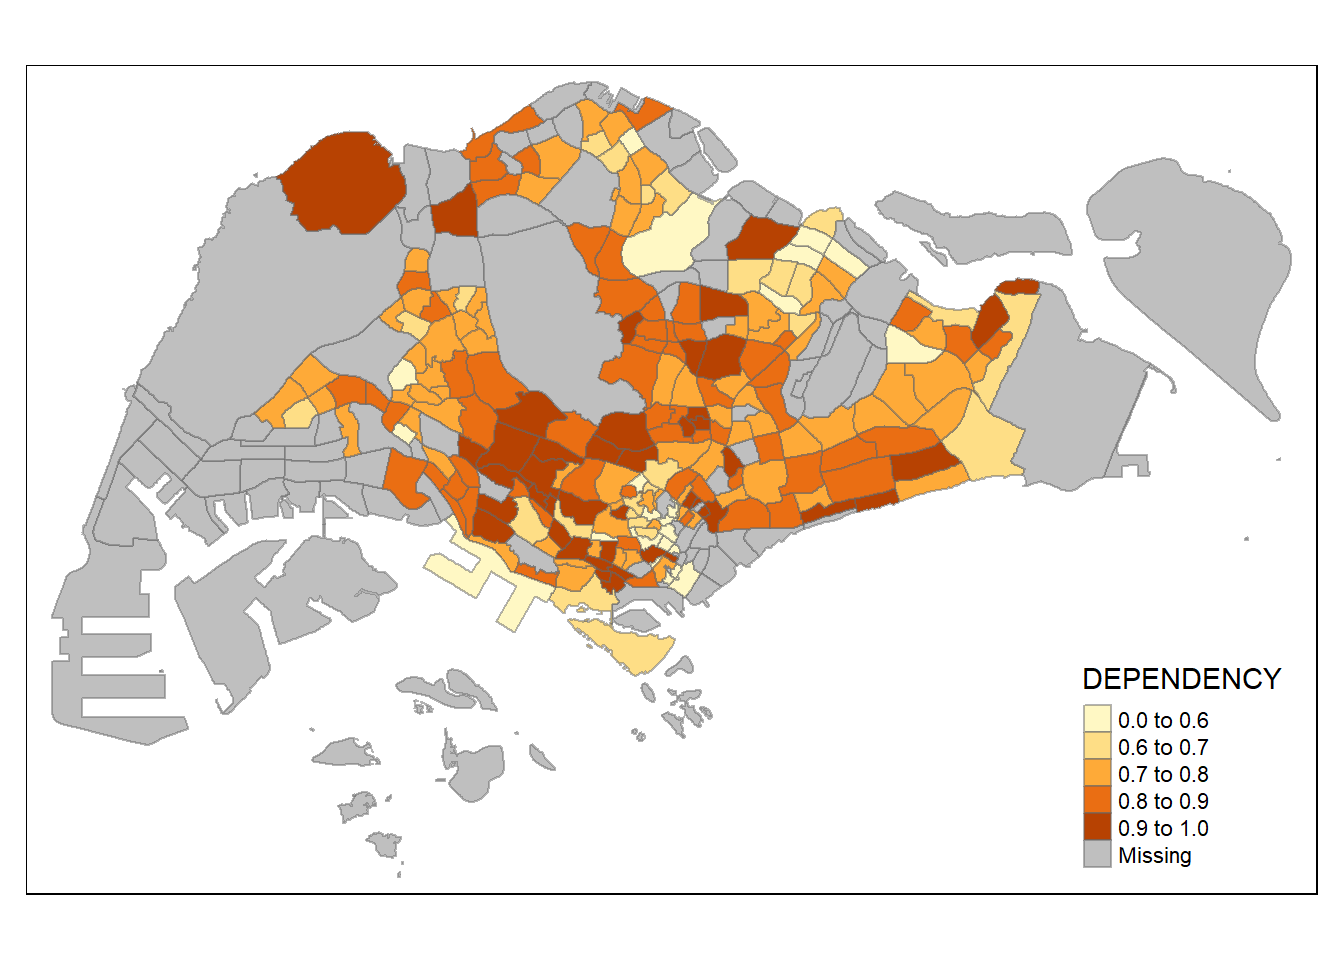
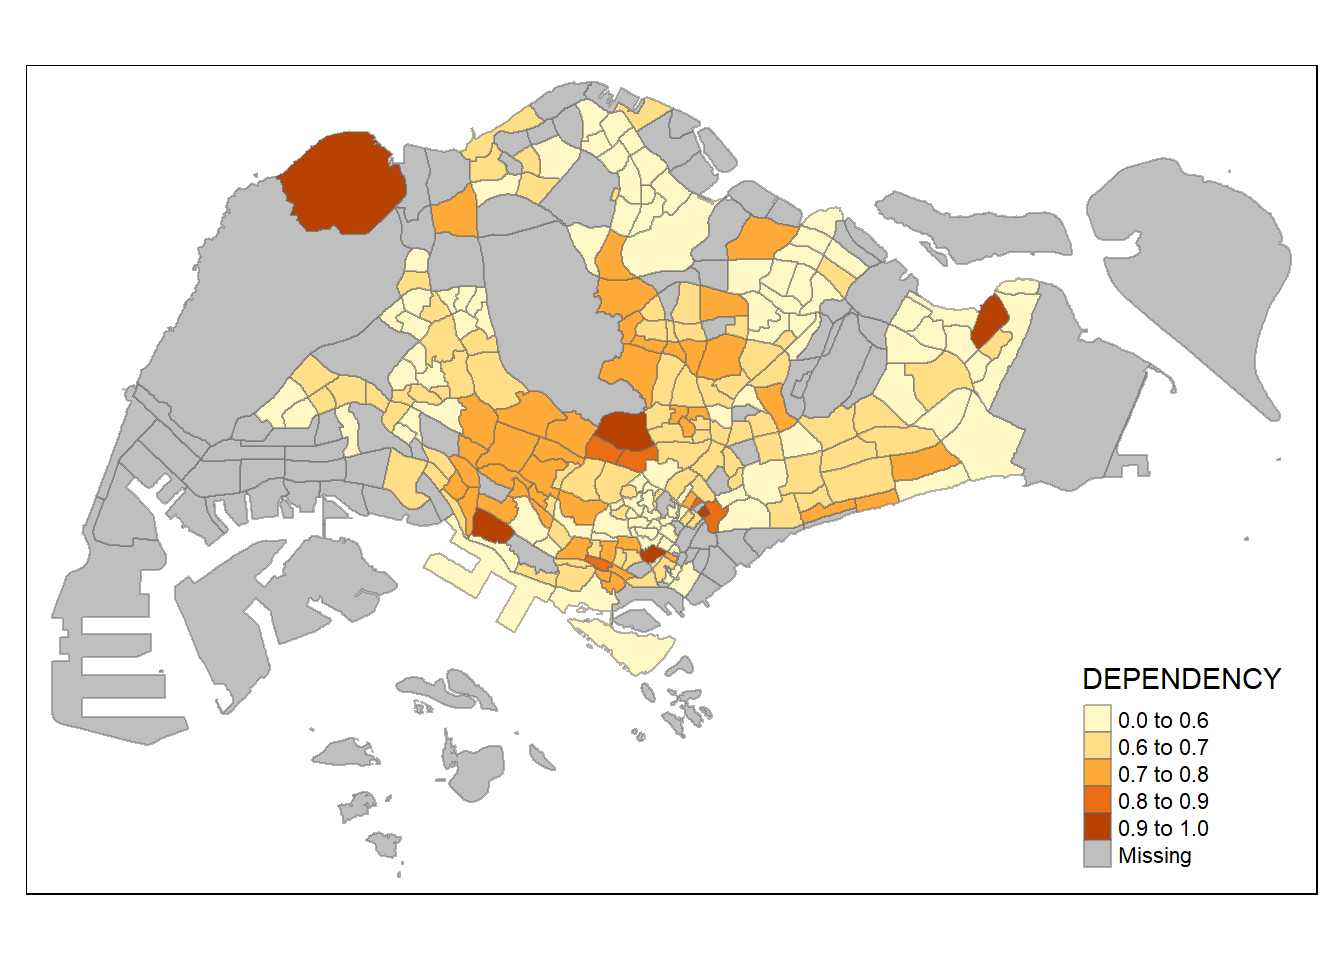
Updated code in Hands-on Exercise 02

Changed region(s): [[0.1875, 0.0938, 0.7812, 0.7188]]

diff --git a/_site/Hands-on_Ex/Hands-on_Ex02/Hands-on_Ex02.html b/_site/Hands-on_Ex/Hands-on_Ex02/Hands-on_Ex02.html
@@ -252,7 +252,7 @@ pre > code.sourceCode > span > a:first-child::before { text-decoration: underlin
     <div>
     <div class="quarto-title-meta-heading">Modified</div>
     <div class="quarto-title-meta-contents">
-      <p class="date-modified">August 20, 2024</p>
+      <p class="date-modified">August 25, 2024</p>
     </div>
   </div>
     
@@ -387,6 +387,7 @@ dbl (2): Pop, Time
 <li><p><em>pivot_wider()</em> of <strong>tidyr</strong> package, and</p></li>
 <li><p><em>mutate()</em>, <em>filter()</em>, <em>group_by()</em> and <em>select()</em> of <strong>dplyr</strong> package</p></li>
 </ul>
+<p>(Code modified on August 25, 2024)</p>
 <div class="cell">
 <div class="sourceCode cell-code" id="cb8"><pre class="sourceCode r code-with-copy"><code class="sourceCode r"><span id="cb8-1"><a href="#cb8-1" aria-hidden="true" tabindex="-1"></a>popdata2020 <span class="ot">&lt;-</span> popdata <span class="sc">%&gt;%</span></span>
 <span id="cb8-2"><a href="#cb8-2" aria-hidden="true" tabindex="-1"></a>  <span class="fu">filter</span>(Time <span class="sc">==</span> <span class="dv">2020</span>) <span class="sc">%&gt;%</span></span>
@@ -395,17 +396,16 @@ dbl (2): Pop, Time
 <span id="cb8-5"><a href="#cb8-5" aria-hidden="true" tabindex="-1"></a>  <span class="fu">ungroup</span>()<span class="sc">%&gt;%</span></span>
 <span id="cb8-6"><a href="#cb8-6" aria-hidden="true" tabindex="-1"></a>  <span class="fu">pivot_wider</span>(<span class="at">names_from=</span>AG, </span>
 <span id="cb8-7"><a href="#cb8-7" aria-hidden="true" tabindex="-1"></a>              <span class="at">values_from=</span>POP) <span class="sc">%&gt;%</span></span>
-<span id="cb8-8"><a href="#cb8-8" aria-hidden="true" tabindex="-1"></a>  <span class="fu">mutate</span>(<span class="at">YOUNG =</span> <span class="fu">rowSums</span>(.[<span class="dv">3</span><span class="sc">:</span><span class="dv">6</span>])</span>
-<span id="cb8-9"><a href="#cb8-9" aria-hidden="true" tabindex="-1"></a>         <span class="sc">+</span><span class="fu">rowSums</span>(.[<span class="dv">12</span>])) <span class="sc">%&gt;%</span></span>
-<span id="cb8-10"><a href="#cb8-10" aria-hidden="true" tabindex="-1"></a><span class="fu">mutate</span>(<span class="st">`</span><span class="at">ECONOMY ACTIVE</span><span class="st">`</span> <span class="ot">=</span> <span class="fu">rowSums</span>(.[<span class="dv">7</span><span class="sc">:</span><span class="dv">11</span>])<span class="sc">+</span></span>
-<span id="cb8-11"><a href="#cb8-11" aria-hidden="true" tabindex="-1"></a><span class="fu">rowSums</span>(.[<span class="dv">13</span><span class="sc">:</span><span class="dv">15</span>]))<span class="sc">%&gt;%</span></span>
-<span id="cb8-12"><a href="#cb8-12" aria-hidden="true" tabindex="-1"></a><span class="fu">mutate</span>(<span class="st">`</span><span class="at">AGED</span><span class="st">`</span><span class="ot">=</span><span class="fu">rowSums</span>(.[<span class="dv">16</span><span class="sc">:</span><span class="dv">21</span>])) <span class="sc">%&gt;%</span></span>
-<span id="cb8-13"><a href="#cb8-13" aria-hidden="true" tabindex="-1"></a><span class="fu">mutate</span>(<span class="st">`</span><span class="at">TOTAL</span><span class="st">`</span><span class="ot">=</span><span class="fu">rowSums</span>(.[<span class="dv">3</span><span class="sc">:</span><span class="dv">21</span>])) <span class="sc">%&gt;%</span>  </span>
-<span id="cb8-14"><a href="#cb8-14" aria-hidden="true" tabindex="-1"></a><span class="fu">mutate</span>(<span class="st">`</span><span class="at">DEPENDENCY</span><span class="st">`</span> <span class="ot">=</span> (<span class="st">`</span><span class="at">YOUNG</span><span class="st">`</span> <span class="sc">+</span> <span class="st">`</span><span class="at">AGED</span><span class="st">`</span>)</span>
-<span id="cb8-15"><a href="#cb8-15" aria-hidden="true" tabindex="-1"></a><span class="sc">/</span><span class="st">`</span><span class="at">ECONOMY ACTIVE</span><span class="st">`</span>) <span class="sc">%&gt;%</span></span>
-<span id="cb8-16"><a href="#cb8-16" aria-hidden="true" tabindex="-1"></a>  <span class="fu">select</span>(<span class="st">`</span><span class="at">PA</span><span class="st">`</span>, <span class="st">`</span><span class="at">SZ</span><span class="st">`</span>, <span class="st">`</span><span class="at">YOUNG</span><span class="st">`</span>, </span>
-<span id="cb8-17"><a href="#cb8-17" aria-hidden="true" tabindex="-1"></a>       <span class="st">`</span><span class="at">ECONOMY ACTIVE</span><span class="st">`</span>, <span class="st">`</span><span class="at">AGED</span><span class="st">`</span>, </span>
-<span id="cb8-18"><a href="#cb8-18" aria-hidden="true" tabindex="-1"></a>       <span class="st">`</span><span class="at">TOTAL</span><span class="st">`</span>, <span class="st">`</span><span class="at">DEPENDENCY</span><span class="st">`</span>)</span></code><button title="Copy to Clipboard" class="code-copy-button"><i class="bi"></i></button></pre></div>
+<span id="cb8-8"><a href="#cb8-8" aria-hidden="true" tabindex="-1"></a>  <span class="fu">mutate</span>(<span class="at">YOUNG =</span> <span class="fu">rowSums</span>(.[<span class="dv">3</span><span class="sc">:</span><span class="dv">6</span>])) <span class="sc">%&gt;%</span></span>
+<span id="cb8-9"><a href="#cb8-9" aria-hidden="true" tabindex="-1"></a><span class="fu">mutate</span>(<span class="st">`</span><span class="at">ECONOMY ACTIVE</span><span class="st">`</span> <span class="ot">=</span> <span class="fu">rowSums</span>(.[<span class="dv">7</span><span class="sc">:</span><span class="dv">13</span>])<span class="sc">+</span></span>
+<span id="cb8-10"><a href="#cb8-10" aria-hidden="true" tabindex="-1"></a><span class="fu">rowSums</span>(.[<span class="dv">15</span>]))<span class="sc">%&gt;%</span></span>
+<span id="cb8-11"><a href="#cb8-11" aria-hidden="true" tabindex="-1"></a><span class="fu">mutate</span>(<span class="st">`</span><span class="at">AGED</span><span class="st">`</span><span class="ot">=</span><span class="fu">rowSums</span>(.[<span class="dv">16</span><span class="sc">:</span><span class="dv">21</span>])) <span class="sc">%&gt;%</span></span>
+<span id="cb8-12"><a href="#cb8-12" aria-hidden="true" tabindex="-1"></a><span class="fu">mutate</span>(<span class="st">`</span><span class="at">TOTAL</span><span class="st">`</span><span class="ot">=</span><span class="fu">rowSums</span>(.[<span class="dv">3</span><span class="sc">:</span><span class="dv">21</span>])) <span class="sc">%&gt;%</span>  </span>
+<span id="cb8-13"><a href="#cb8-13" aria-hidden="true" tabindex="-1"></a><span class="fu">mutate</span>(<span class="st">`</span><span class="at">DEPENDENCY</span><span class="st">`</span> <span class="ot">=</span> (<span class="st">`</span><span class="at">YOUNG</span><span class="st">`</span> <span class="sc">+</span> <span class="st">`</span><span class="at">AGED</span><span class="st">`</span>)</span>
+<span id="cb8-14"><a href="#cb8-14" aria-hidden="true" tabindex="-1"></a><span class="sc">/</span><span class="st">`</span><span class="at">ECONOMY ACTIVE</span><span class="st">`</span>) <span class="sc">%&gt;%</span></span>
+<span id="cb8-15"><a href="#cb8-15" aria-hidden="true" tabindex="-1"></a>  <span class="fu">select</span>(<span class="st">`</span><span class="at">PA</span><span class="st">`</span>, <span class="st">`</span><span class="at">SZ</span><span class="st">`</span>, <span class="st">`</span><span class="at">YOUNG</span><span class="st">`</span>, </span>
+<span id="cb8-16"><a href="#cb8-16" aria-hidden="true" tabindex="-1"></a>       <span class="st">`</span><span class="at">ECONOMY ACTIVE</span><span class="st">`</span>, <span class="st">`</span><span class="at">AGED</span><span class="st">`</span>, </span>
+<span id="cb8-17"><a href="#cb8-17" aria-hidden="true" tabindex="-1"></a>       <span class="st">`</span><span class="at">TOTAL</span><span class="st">`</span>, <span class="st">`</span><span class="at">DEPENDENCY</span><span class="st">`</span>)</span></code><button title="Copy to Clipboard" class="code-copy-button"><i class="bi"></i></button></pre></div>
 <div class="cell-output cell-output-stderr">
 <pre><code>`summarise()` has grouped output by 'PA', 'SZ'. You can override using the
 `.groups` argument.</code></pre>
@@ -576,7 +576,7 @@ dbl (2): Pop, Time
 <div class="sourceCode cell-code" id="cb23"><pre class="sourceCode r code-with-copy"><code class="sourceCode r"><span id="cb23-1"><a href="#cb23-1" aria-hidden="true" tabindex="-1"></a><span class="fu">summary</span>(mpsz_pop2020<span class="sc">$</span>DEPENDENCY)</span></code><button title="Copy to Clipboard" class="code-copy-button"><i class="bi"></i></button></pre></div>
 <div class="cell-output cell-output-stdout">
 <pre><code>   Min. 1st Qu.  Median    Mean 3rd Qu.    Max.    NA's 
- 0.1111  0.7147  0.7866  0.8585  0.8763 19.0000      92 </code></pre>
+ 0.0000  0.5661  0.6179  0.6942  0.6941 19.0000      92 </code></pre>
 </div>
 </div>
 <p>From the results above, the break point will be 0.60, 0.70, 0.80 and 0.90. We also need to include a minimum and maximum which will be set at 0 and 100. The breaks vector is thus c(0, 0.60, 0.70, 0.80, 0.90, 1.00)</p>
